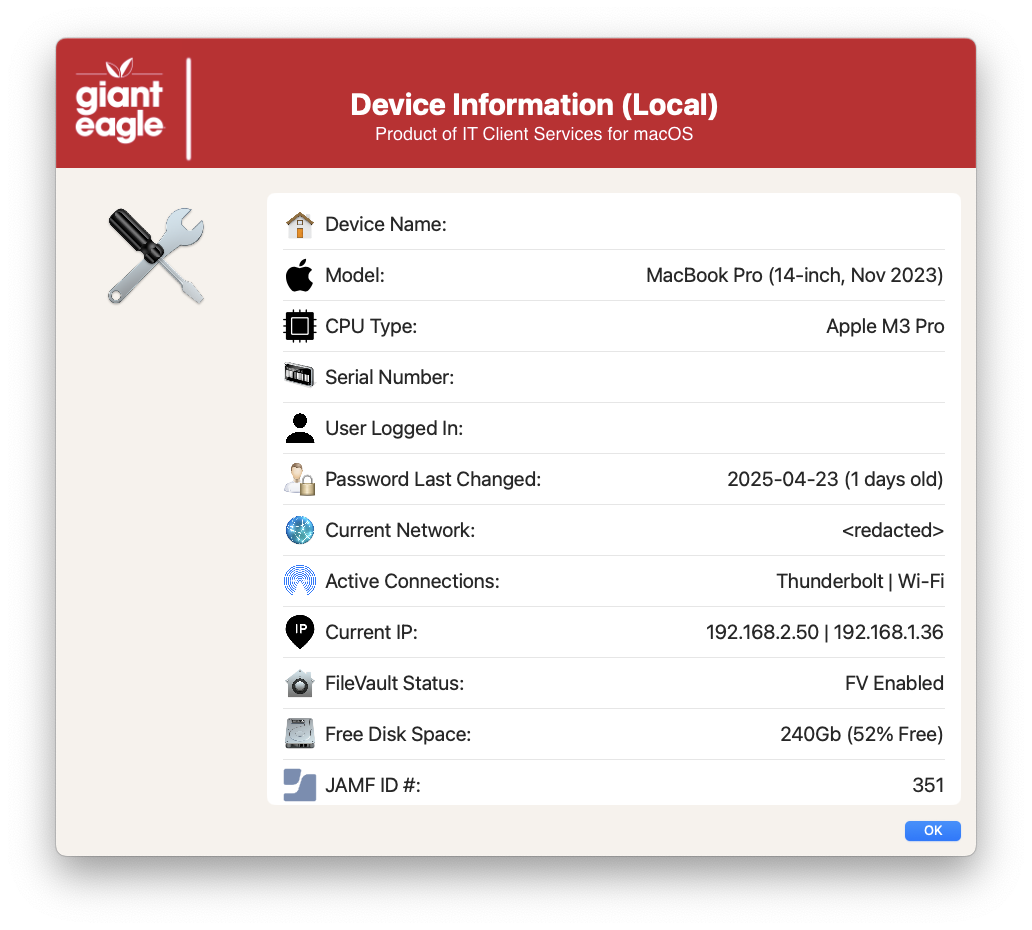
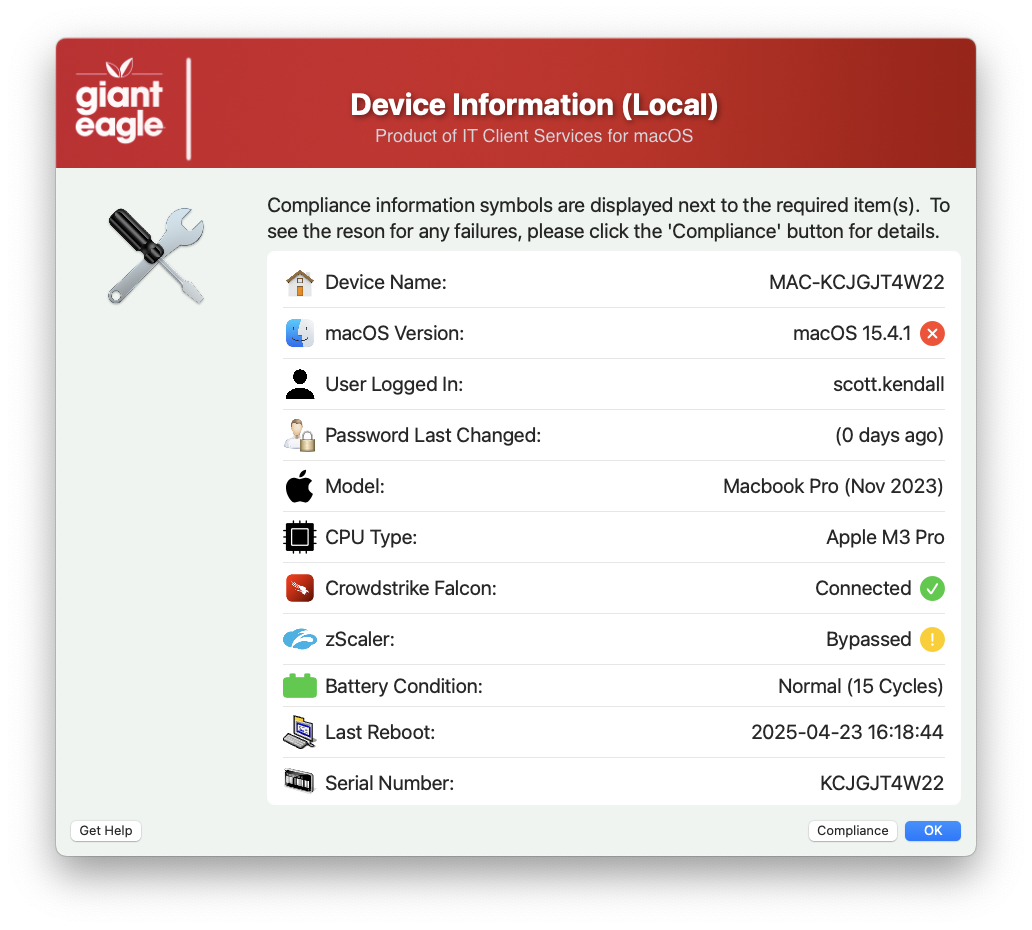
Display information about your system or any JAMF device

diff --git a/ViewInventory/README.md b/ViewInventory/README.md
@@ -14,6 +14,10 @@ Results of local JAMF record
 
 ![View Inventory for remote record](/ViewInventory/ViewInventory_Remote.png)
 
+Results of a compliance failure screen with details
+
+![Compliance Failure](/ViewInventory/ViewInventory_Failures.png)
+
 **Parameters for System Script**
 
 ![Parameters](/ViewInventory/ViewInventory_Parms.png)
